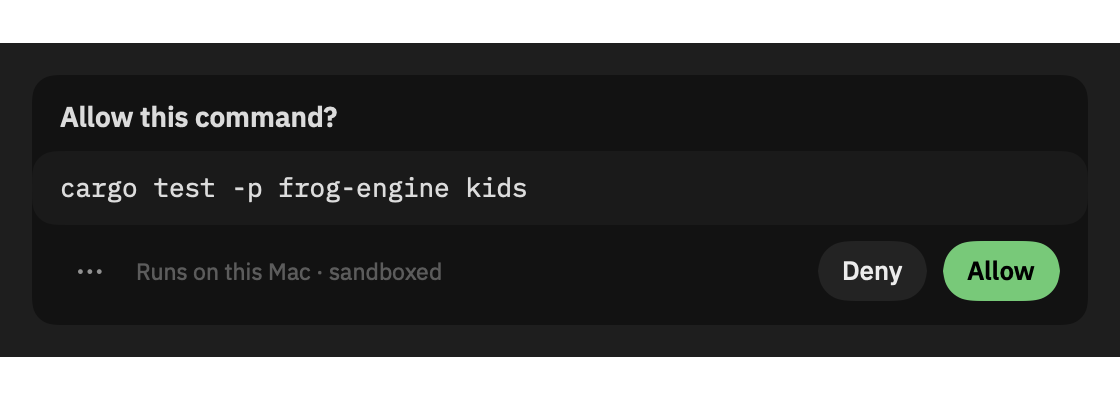
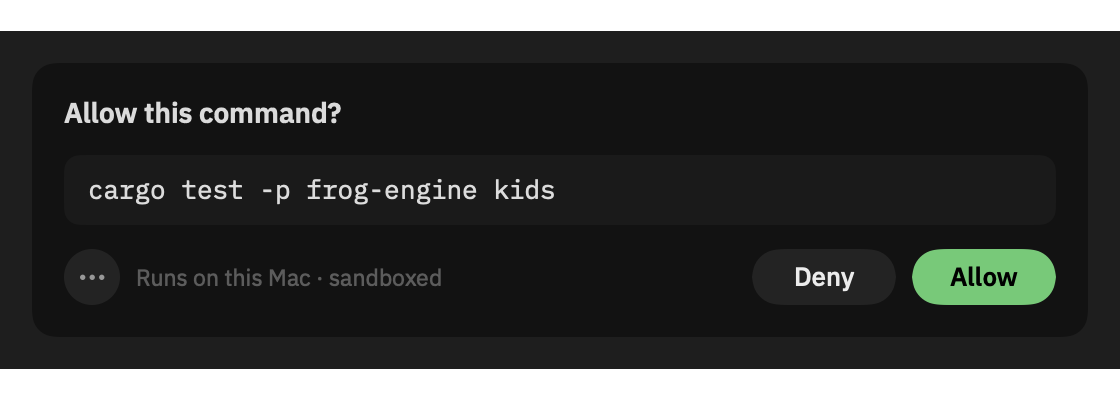
Ask card: one inset, one rhythm
16 pt inset all round and 12 between parts; the command in a rounded well
inside the margins; Deny and Allow the same width; the ⋯ a quiet circle.
Same rhythm on the web. The two-line sidebar's fold caret sits on the title
line.

diff --git a/apps/FrogKit/UI/Transcript/ItemViews.swift b/apps/FrogKit/UI/Transcript/ItemViews.swift
@@ -512,28 +512,32 @@ struct PermissionCard: View {
     /// One look with the web: the title, the command in a well, where it runs, then the answers.
     /// Allow is the green primary (⌘↩), Deny keeps ⌘., the rest are secondary.
     private var macCard: some View {
-        VStack(alignment: .leading, spacing: 0) {
-            Text(request.question)
-                .font(.frog(size: Tokens.Size.body, weight: .semibold))
-                .padding(.horizontal, 14).padding(.top, 12).padding(.bottom, 8)
-            if let reason = request.reason {
-                Text(reason).font(.callout).foregroundStyle(Tokens.textSecondary)
-                    .padding(.horizontal, 14).padding(.bottom, 8)
+        // One inset (16) all round, one rhythm (12) between parts, the command in a rounded
+        // well inside the margins, the answers on the last line.
+        VStack(alignment: .leading, spacing: 12) {
+            VStack(alignment: .leading, spacing: 4) {
+                Text(request.question)
+                    .font(.frog(size: Tokens.Size.body, weight: .semibold))
+                if let reason = request.reason {
+                    Text(reason).font(.frog(size: Tokens.Size.secondary)).foregroundStyle(Tokens.textSecondary)
+                        .fixedSize(horizontal: false, vertical: true)
+                }
             }
             if let diff = request.preview {
-                DiffView(diff: diff, maxLines: 40).padding(.horizontal, 14).padding(.bottom, 8)
+                DiffView(diff: diff, maxLines: 40)
+                    .clipShape(.rect(cornerRadius: 8))
             } else if !request.arg.isEmpty {
                 Text(request.arg)
                     .font(.frog(size: Tokens.Size.secondary, design: .monospaced))
                     .textSelection(.enabled)
                     .lineLimit(8)
-                    .padding(.horizontal, 14).padding(.vertical, 10)
+                    .padding(.horizontal, 12).padding(.vertical, 9)
                     .frame(maxWidth: .infinity, alignment: .leading)
-                    .background(Tokens.well)
+                    .background(Tokens.well, in: .rect(cornerRadius: 8))
             }
-            if let card = request.card { ApprovalDetails(card: card).padding(.horizontal, 14).padding(.top, 8) }
+            if let card = request.card { ApprovalDetails(card: card) }
             if noting {
-                HStack(spacing: TurnSpace.Inset.row) {
+                HStack(spacing: 8) {
                     TextField("Tell the agent why, or what to do instead", text: $note)
                         .textFieldStyle(.roundedBorder)
                         .onSubmit { conversation.answer(.deny, note: note) }
@@ -541,7 +545,6 @@ struct PermissionCard: View {
                         .buttonStyle(CardButtonStyle())
                         .disabled(note.trimmingCharacters(in: .whitespaces).isEmpty)
                 }
-                .padding(.horizontal, 14).padding(.top, 10)
             }
             // Two answers, as a Mac alert has: Deny and the default, Allow. The rest of the
             // choices wait behind ⋯; the shortcuts work without being printed on the buttons.
@@ -553,7 +556,11 @@ struct PermissionCard: View {
                     }
                     Button("Deny with a Note…") { noting = true }
                 } label: {
-                    Image(systemName: "ellipsis").frame(width: 30, height: 30).contentShape(.circle)
+                    Image(systemName: "ellipsis")
+                        .font(.frog(size: Tokens.Size.secondary, weight: .semibold))
+                        .frame(width: 28, height: 28)
+                        .background(Tokens.hover, in: .circle)
+                        .contentShape(.circle)
                 }
                 .menuStyle(.button).buttonStyle(.plain).menuIndicator(.hidden).fixedSize()
                 .foregroundStyle(Tokens.textSecondary)
@@ -562,7 +569,7 @@ struct PermissionCard: View {
                     .font(.frog(size: Tokens.Size.meta))
                     .foregroundStyle(Tokens.textTertiary)
                     .lineLimit(1)
-                Spacer(minLength: 8)
+                Spacer(minLength: 12)
                 Button("Deny") { conversation.answer(.deny) }
                     .buttonStyle(CardButtonStyle())
                     .keyboardShortcut(".", modifiers: .command)
@@ -572,8 +579,8 @@ struct PermissionCard: View {
                     .keyboardShortcut(.return, modifiers: .command)
                     .help("Allow (⌘↩)")
             }
-            .padding(.horizontal, 14).padding(.top, 8).padding(.bottom, 12)
         }
+        .padding(16)
         .frame(maxWidth: .infinity, alignment: .leading)
         .background(Tokens.raised, in: .rect(cornerRadius: Tokens.Radius.card))
         .clipShape(.rect(cornerRadius: Tokens.Radius.card))
@@ -594,8 +601,9 @@ struct CardButtonStyle: ButtonStyle {
         configuration.label
             .font(.frog(size: Tokens.Size.secondary, weight: primary ? .semibold : .medium))
             .foregroundStyle(primary ? Color.black : Tokens.text)
-            .padding(.horizontal, 12)
-            .frame(height: 30)
+            .padding(.horizontal, 14)
+            .frame(minWidth: 72)
+            .frame(height: 28)
             .background(primary ? Tokens.accent : Tokens.hover, in: .capsule)
             .opacity(enabled ? (configuration.isPressed ? 0.8 : 1) : 0.45)
             .contentShape(.capsule)

diff --git a/apps/web/src/app.css b/apps/web/src/app.css
@@ -595,3 +595,11 @@ button.tool:hover .tool-chev { opacity: 1; }
 .ask-more-menu button { text-align: left; padding: 6px 10px; border: 0; border-radius: 6px; background: transparent; color: var(--fg); font: inherit; font-size: 13px; cursor: pointer; }
 .ask-more-menu button:hover { background: var(--hover); }
 .diff-acts .ask-where { align-self: center; margin: 0; padding: 0; }
+
+/* The ask card's rhythm, as the Mac's: 16 inset, 12 between parts, the command in a rounded well. */
+.cardx.ask { padding: 16px; display: flex; flex-direction: column; gap: 12px; }
+.cardx.ask .ask-h { padding: 0; display: flex; flex-direction: column; gap: 4px; }
+.cardx.ask > .diff { margin: 0; border-radius: 8px; padding: 9px 12px; }
+.cardx.ask .diff-acts { padding: 0; margin: 0; gap: 8px; align-items: center; }
+.cardx.ask .diff-acts .f-btn { min-width: 72px; height: 28px; }
+.ask-more > summary { min-width: 0 !important; width: 28px; height: 28px; padding: 0; border-radius: 50%; display: grid; place-items: center; }

diff --git a/apps/macos/Frog/Views/Sidebar.swift b/apps/macos/Frog/Views/Sidebar.swift
@@ -910,7 +910,7 @@ struct SessionList: View {
                                         .frame(width: 16, height: 16).contentShape(.rect)
                                 }
                                 .buttonStyle(.plain).foregroundStyle(.tertiary)
-                                .padding(.top, 2).padding(.trailing, 2)
+                                .padding(.top, 9).padding(.trailing, 6)
                                 .help(collapsed ? "Show the sessions it started" : "Fold the sessions it started")
                             }
                         }
